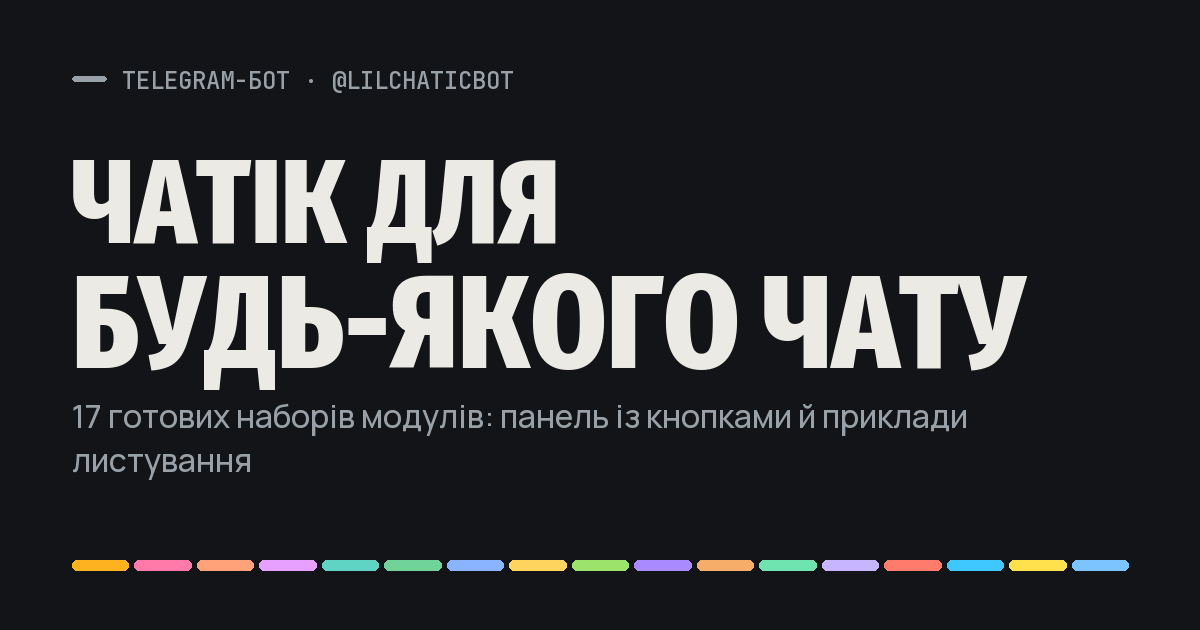
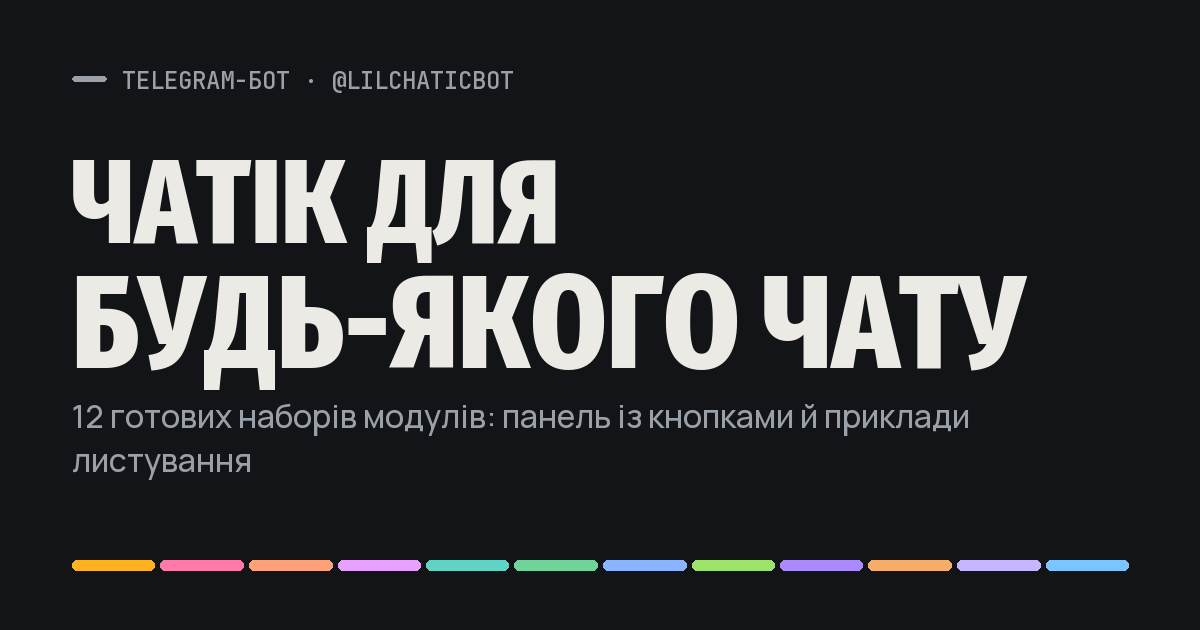
🪧 Набори Чатіка: оновлення сайту

Changed region(s): [[0.0617, 0.6333, 0.8017, 0.6937], [0.0925, 0.8746, 0.8942, 0.9048]]

diff --git a/index.html b/index.html
@@ -6,13 +6,13 @@
 <meta property="og:type" content="website">
 <meta property="og:site_name" content="Чатік">
 <meta property="og:title" content="Набори Чатіка">
-<meta property="og:description" content="17 готових наборів модулів Telegram-бота Чатік під різні чати: панель із кнопками й приклади листування.">
+<meta property="og:description" content="12 готових наборів модулів Telegram-бота Чатік під різні чати: панель із кнопками й приклади листування.">
 <meta property="og:image" content="https://zoneofcontrol.github.io/chatic/og/index.png">
 <meta property="og:image:width" content="1200">
 <meta property="og:image:height" content="630">
 <meta name="twitter:card" content="summary_large_image">
 <meta property="og:url" content="https://zoneofcontrol.github.io/chatic/">
-<meta name="description" content="17 готових наборів модулів Telegram-бота Чатік під різні чати: панель із кнопками й приклади листування.">
+<meta name="description" content="12 готових наборів модулів Telegram-бота Чатік під різні чати: панель із кнопками й приклади листування.">
 <meta name="theme-color" content="#121417">
 <script src="https://telegram.org/js/telegram-web-app.js"></script>
 <script>
@@ -130,12 +130,12 @@ h1,h2,h3{font-family:var(--f-display);text-wrap:balance;margin:0;letter-spacing:
 </div>
 
 <script>
-const D = {"cards": [{"key": "moto", "emoji": "🏍", "name": ["Мото", "Мото"], "hook": ["Покатушки, SOS с геолокацией, кофе по трассе", "Покатушки, SOS з геолокацією, кава по трасі"], "accent": "#ffb21f", "n": 22, "url": "moto.html"}, {"key": "friends", "emoji": "👫", "name": ["Друзья", "Друзі"], "hook": ["Шашлыки, долги за пиццу, котики, Санта", "Шашлики, борги за піцу, котики, Санта"], "accent": "#ff7aa8", "n": 35, "url": "friends.html"}, {"key": "family", "emoji": "👪", "name": ["Семья", "Сім'я"], "hook": ["Таблетки бабушке, «все дома?», свет", "Пігулки бабусі, «всі вдома?», світло"], "accent": "#ffa27a", "n": 25, "url": "family.html"}, {"key": "neighbors", "emoji": "🏠", "name": ["Соседи и ОСББ", "Сусіди й ОСББ"], "hook": ["«Коли світло?», сбор на домофон, аварийка", "«Коли світло?», збір на домофон, аварійка"], "accent": "#e7a0ff", "n": 22, "url": "neighbors.html"}, {"key": "community", "emoji": "🏘", "name": ["Большое сообщество", "Велика спільнота"], "hook": ["Капча, ответы #тегами, карма, порядок", "Капча, відповіді #тегами, карма, порядок"], "accent": "#5fd3c4", "n": 21, "url": "community.html"}, {"key": "work", "emoji": "💼", "name": ["Работа", "Робота"], "hook": ["Планёрки, опросы, база ответов", "Планірки, опитування, база відповідей"], "accent": "#6fd39a", "n": 19, "url": "work.html"}, {"key": "study", "emoji": "🎓", "name": ["Учёба", "Навчання"], "hook": ["Пары, дедлайны, очередь на сдачу лаб", "Пари, дедлайни, черга на здачу лаб"], "accent": "#8ab4ff", "n": 20, "url": "study.html"}, {"key": "school", "emoji": "🏫", "name": ["Родители класса", "Батьки класу"], "hook": ["Сборы «сдал», объявления, «что задали?»", "Збори «здав», оголошення, «що задали?»"], "accent": "#ffd45e", "n": 19, "url": "school.html"}, {"key": "hobby", "emoji": "⚽", "name": ["Хобби и спорт", "Хобі й спорт"], "hook": ["Тренировки, челленджи, КБЖУ", "Тренування, челенджі, КБЖВ"], "accent": "#9be36b", "n": 19, "url": "hobby.html"}, {"key": "games", "emoji": "🎮", "name": ["Игры", "Ігри"], "hook": ["Лобби «кто в CS?», ачивки, цитатник", "Лобі «хто в CS?», ачівки, цитатник"], "accent": "#a98bff", "n": 23, "url": "games.html"}, {"key": "pets", "emoji": "🐾", "name": ["Питомцы", "Тварини"], "hook": ["Прививки, прогулки, «потерялся»", "Щеплення, прогулянки, «загубився»"], "accent": "#f7ad6a", "n": 19, "url": "pets.html"}, {"key": "weightloss", "emoji": "⚖", "name": ["Похудение", "Схуднення"], "hook": ["Вес только в процентах, челленджи", "Вага лише у відсотках, челенджі"], "accent": "#6fe3b0", "n": 19, "url": "weightloss.html"}, {"key": "support", "emoji": "🤍", "name": ["Поддержка", "Підтримка"], "hook": ["Тихое «как ты?», помощь, анонимки", "Тихе «як ти?», допомога, анонімки"], "accent": "#c7b6ff", "n": 19, "url": "support.html"}, {"key": "band", "emoji": "🎸", "name": ["Группа", "Гурт"], "hook": ["Сетлисты, репетиции, кто что несёт", "Сетлисти, репетиції, хто що несе"], "accent": "#ff7b6b", "n": 22, "url": "band.html"}, {"key": "travel", "emoji": "🌍", "name": ["Поездка", "Поїздка"], "hook": ["Кто кому должен, список вещей, места", "Хто кому винен, список речей, місця"], "accent": "#3fc8ff", "n": 21, "url": "travel.html"}, {"key": "volunteers", "emoji": "🤝", "name": ["Волонтёры", "Волонтери"], "hook": ["Сборы, кто что везёт, водители", "Збори, хто що везе, водії"], "accent": "#ffe14d", "n": 20, "url": "volunteers.html"}, {"key": "base", "emoji": "🌐", "name": ["Базовый", "Базовий"], "hook": ["Встречи, опросы, напоминания и порядок", "Зустрічі, опитування, нагадування й порядок"], "accent": "#7cc4ff", "n": 15, "url": "base.html"}], "forms": [["модуль", "модуля", "модулей"], ["модуль", "модулі", "модулів"]], "site": true};
+const D = {"cards": [{"key": "moto", "emoji": "🏍", "name": ["Мото", "Мото"], "hook": ["Покатушки, SOS с геолокацией, кофе по трассе", "Покатушки, SOS з геолокацією, кава по трасі"], "accent": "#ffb21f", "n": 22, "url": "moto.html"}, {"key": "friends", "emoji": "👫", "name": ["Друзья", "Друзі"], "hook": ["Шашлыки, долги за пиццу, котики, Санта", "Шашлики, борги за піцу, котики, Санта"], "accent": "#ff7aa8", "n": 35, "url": "friends.html"}, {"key": "family", "emoji": "👪", "name": ["Семья", "Сім'я"], "hook": ["Таблетки бабушке, «все дома?», свет", "Пігулки бабусі, «всі вдома?», світло"], "accent": "#ffa27a", "n": 25, "url": "family.html"}, {"key": "neighbors", "emoji": "🏠", "name": ["Соседи и ОСББ", "Сусіди й ОСББ"], "hook": ["«Коли світло?», сбор на домофон, аварийка", "«Коли світло?», збір на домофон, аварійка"], "accent": "#e7a0ff", "n": 22, "url": "neighbors.html"}, {"key": "community", "emoji": "🏘", "name": ["Большое сообщество", "Велика спільнота"], "hook": ["Капча, ответы #тегами, карма, порядок", "Капча, відповіді #тегами, карма, порядок"], "accent": "#5fd3c4", "n": 21, "url": "community.html"}, {"key": "work", "emoji": "💼", "name": ["Работа", "Робота"], "hook": ["Планёрки, опросы, база ответов", "Планірки, опитування, база відповідей"], "accent": "#6fd39a", "n": 19, "url": "work.html"}, {"key": "study", "emoji": "🎓", "name": ["Учёба", "Навчання"], "hook": ["Пары, дедлайны, очередь на сдачу лаб", "Пари, дедлайни, черга на здачу лаб"], "accent": "#8ab4ff", "n": 20, "url": "study.html"}, {"key": "hobby", "emoji": "⚽", "name": ["Хобби и спорт", "Хобі й спорт"], "hook": ["Тренировки, челленджи, КБЖУ", "Тренування, челенджі, КБЖВ"], "accent": "#9be36b", "n": 19, "url": "hobby.html"}, {"key": "games", "emoji": "🎮", "name": ["Игры", "Ігри"], "hook": ["Лобби «кто в CS?», ачивки, цитатник", "Лобі «хто в CS?», ачівки, цитатник"], "accent": "#a98bff", "n": 23, "url": "games.html"}, {"key": "pets", "emoji": "🐾", "name": ["Питомцы", "Тварини"], "hook": ["Прививки, прогулки, «потерялся»", "Щеплення, прогулянки, «загубився»"], "accent": "#f7ad6a", "n": 19, "url": "pets.html"}, {"key": "support", "emoji": "🤍", "name": ["Поддержка", "Підтримка"], "hook": ["Тихое «как ты?», помощь, анонимки", "Тихе «як ти?», допомога, анонімки"], "accent": "#c7b6ff", "n": 19, "url": "support.html"}, {"key": "base", "emoji": "🌐", "name": ["Базовый", "Базовий"], "hook": ["Встречи, опросы, напоминания и порядок", "Зустрічі, опитування, нагадування й порядок"], "accent": "#7cc4ff", "n": 15, "url": "base.html"}], "forms": [["модуль", "модуля", "модулей"], ["модуль", "модулі", "модулів"]], "site": true};
 const UI = {
   eyebrow:["Telegram-бот · готовые наборы","Telegram-бот · готові набори"],
   h1:["Чатик<br>для любого чата","Чатік<br>для будь-якого чату"],
-  lead:["17 готовых наборов модулей под разные чаты. Откройте свой: там панель с кнопками, примеры переписки и что умеет каждый модуль.",
-        "17 готових наборів модулів під різні чати. Відкрийте свій: там панель із кнопками, приклади листування і що вміє кожен модуль."],
+  lead:["12 готовых наборов модулей под разные чаты. Откройте свой: там панель с кнопками, примеры переписки и что умеет каждый модуль.",
+        "12 готових наборів модулів під різні чати. Відкрийте свій: там панель із кнопками, приклади листування і що вміє кожен модуль."],
   s1:["Добавьте Чатика в чат и дайте права админа.","Додайте Чатіка в чат і дайте права адміна."],
   s2:["В панели: <strong>Настройки → Пресет</strong>, выберите свой набор.","У панелі: <strong>Налаштування → Пресет</strong>, оберіть свій набір."],
   s3:["Лишнее выключается кнопкой, «↩ Отменить» вернёт как было.","Зайве вимикається кнопкою, «↩ Скасувати» поверне як було."],
